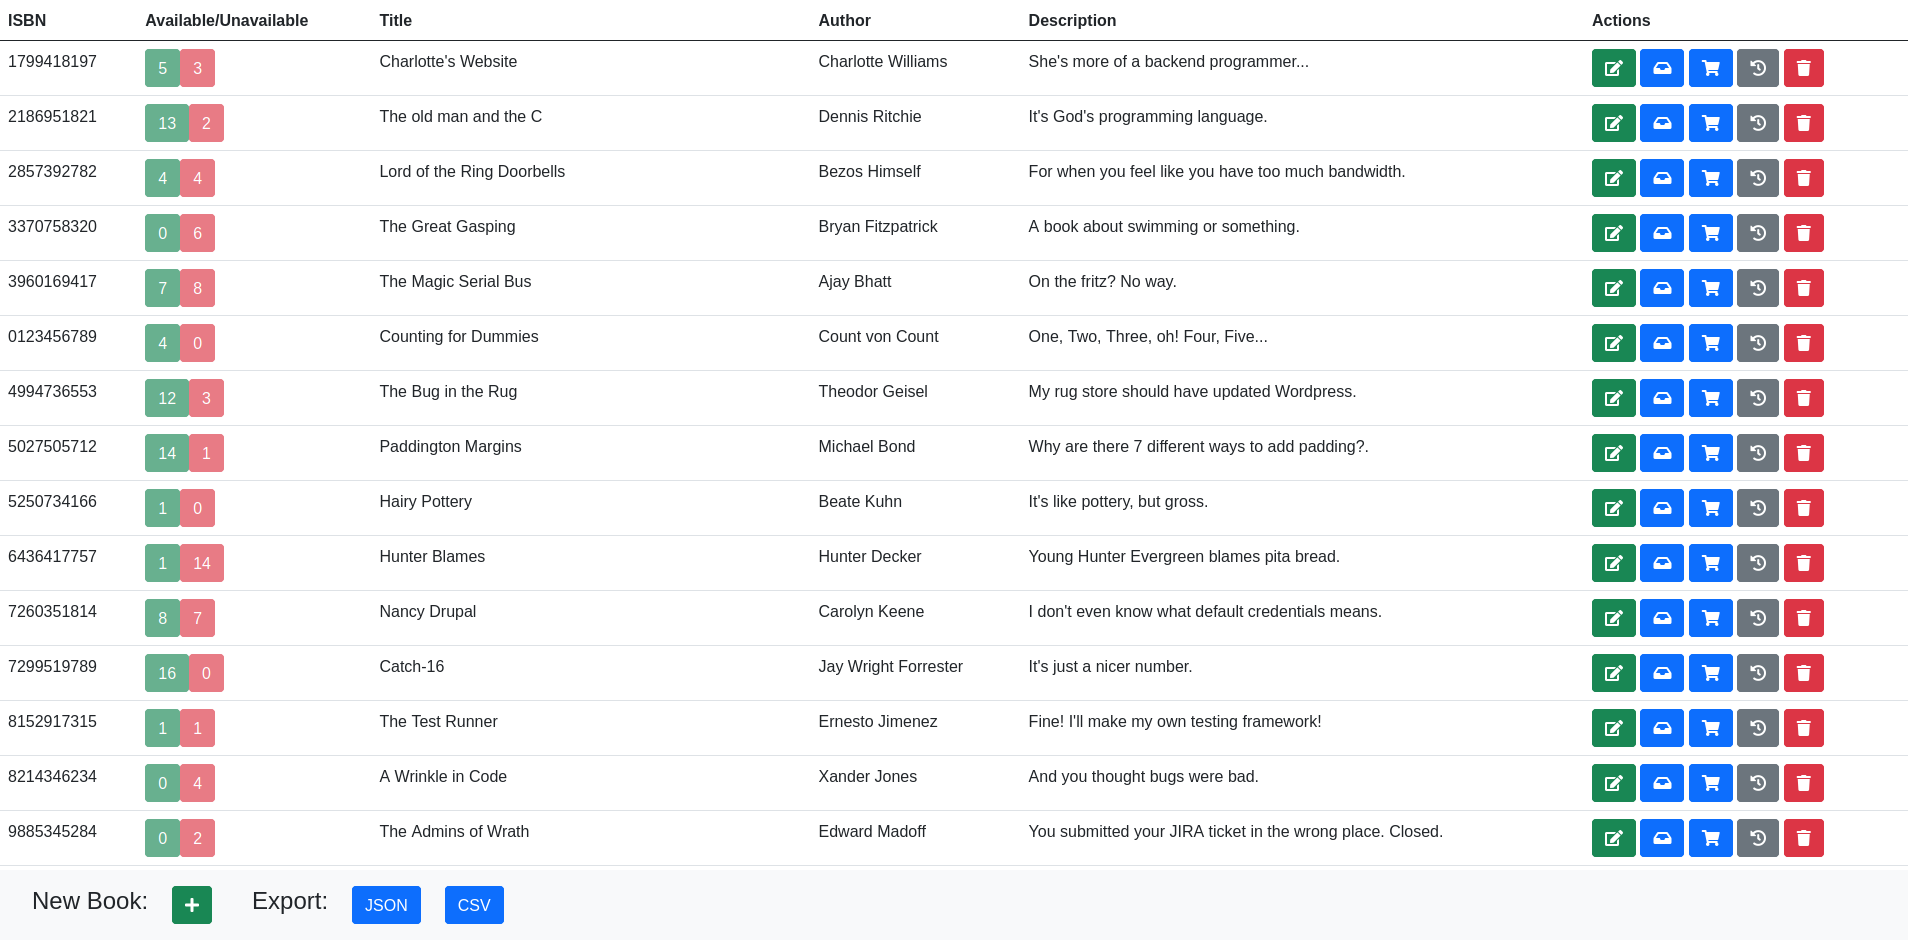
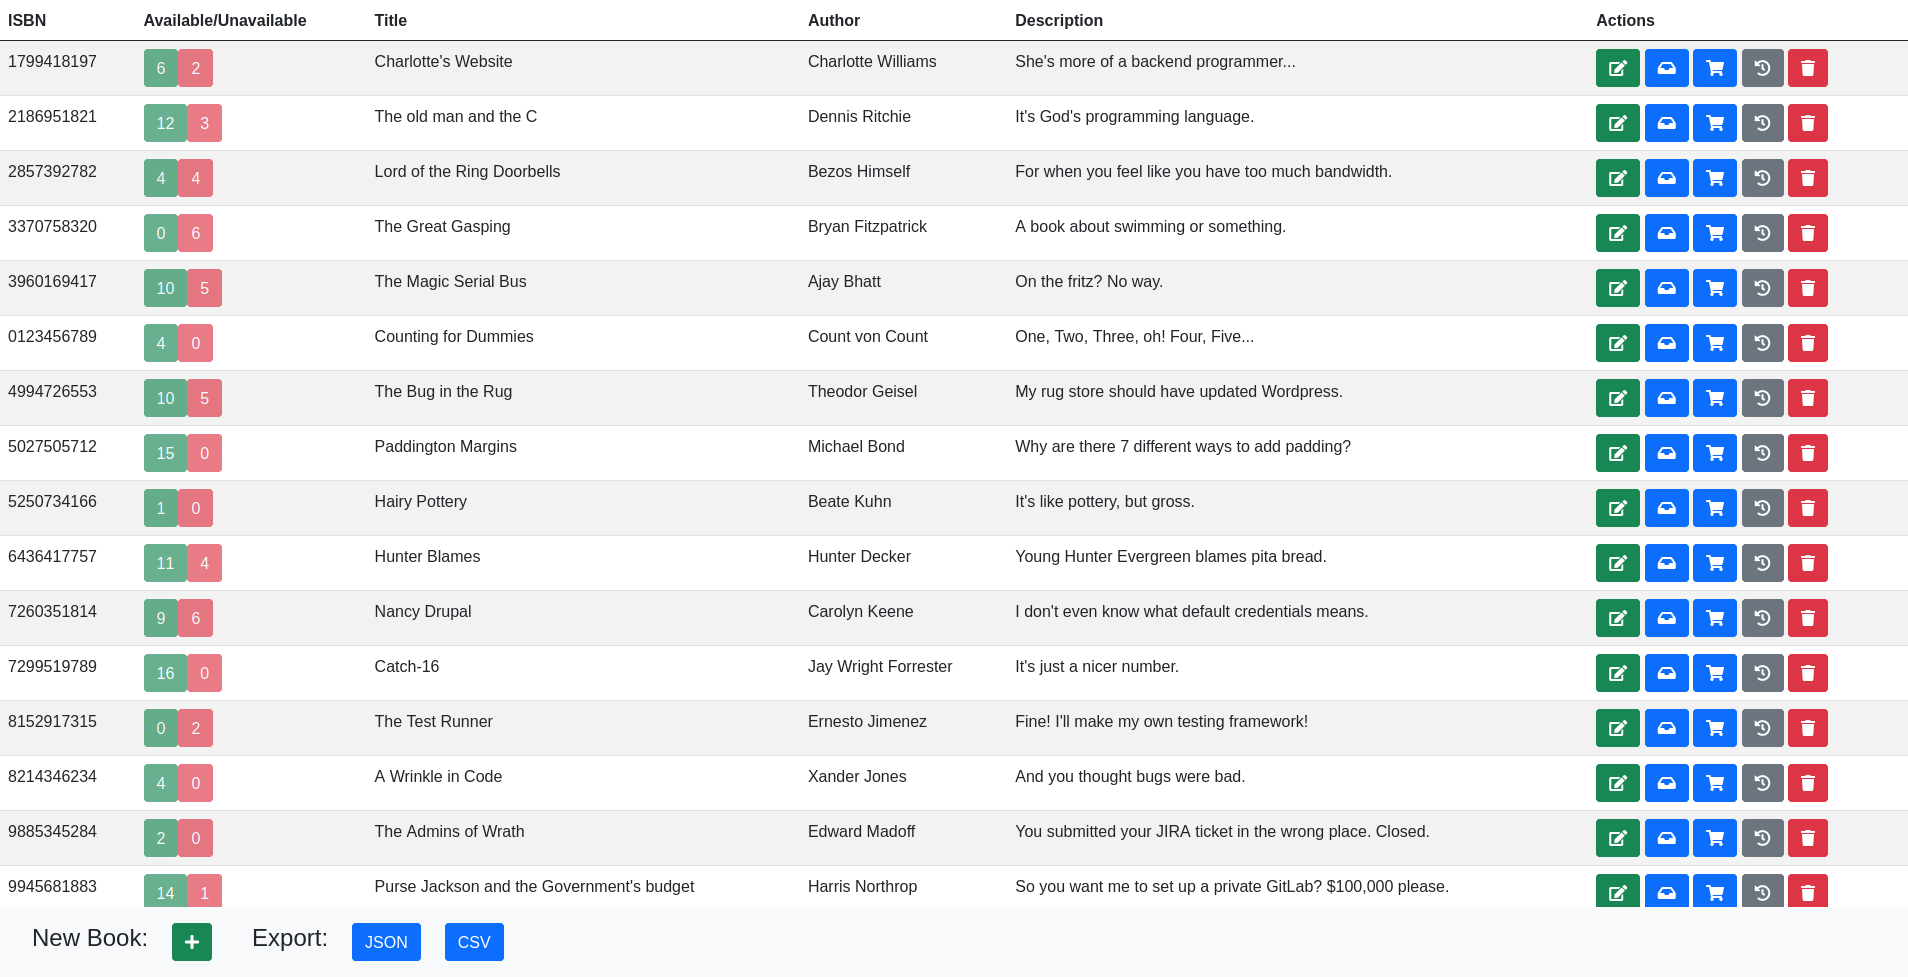
Highlighted rows.

diff --git a/frontend/index.html b/frontend/index.html
@@ -16,7 +16,7 @@
 </head>
 <body style="padding-bottom: 100px">
 <div class="d-flex">
-    <table class="table overflow-auto">
+    <table class="table table-striped overflow-auto">
         <thead>
         <tr>
             <th scope="col">ISBN</th>
